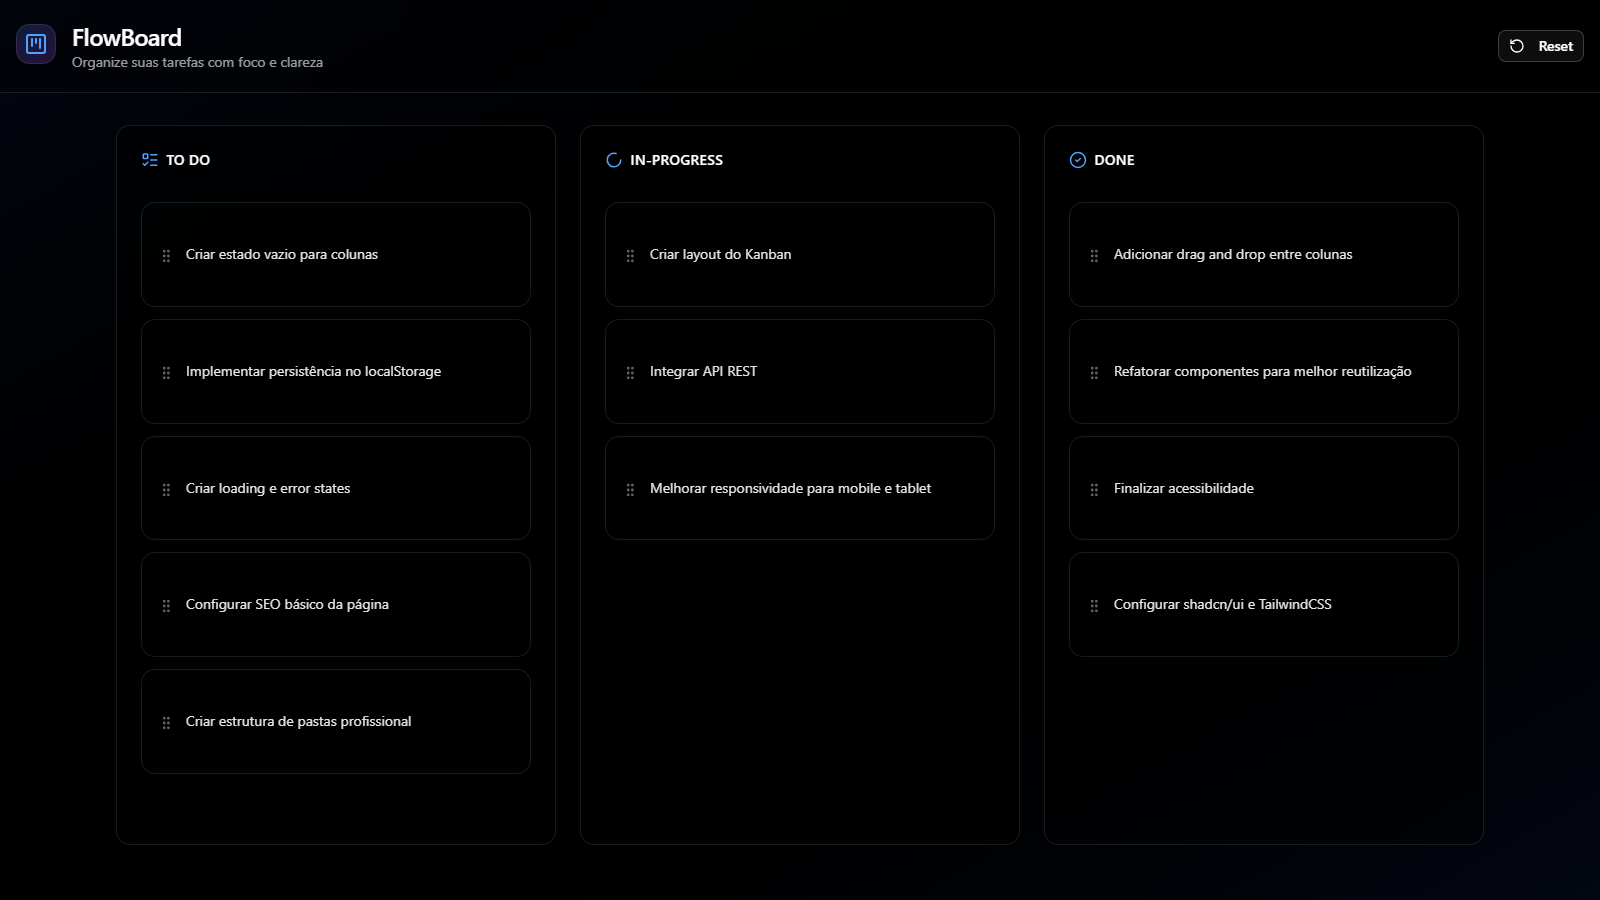
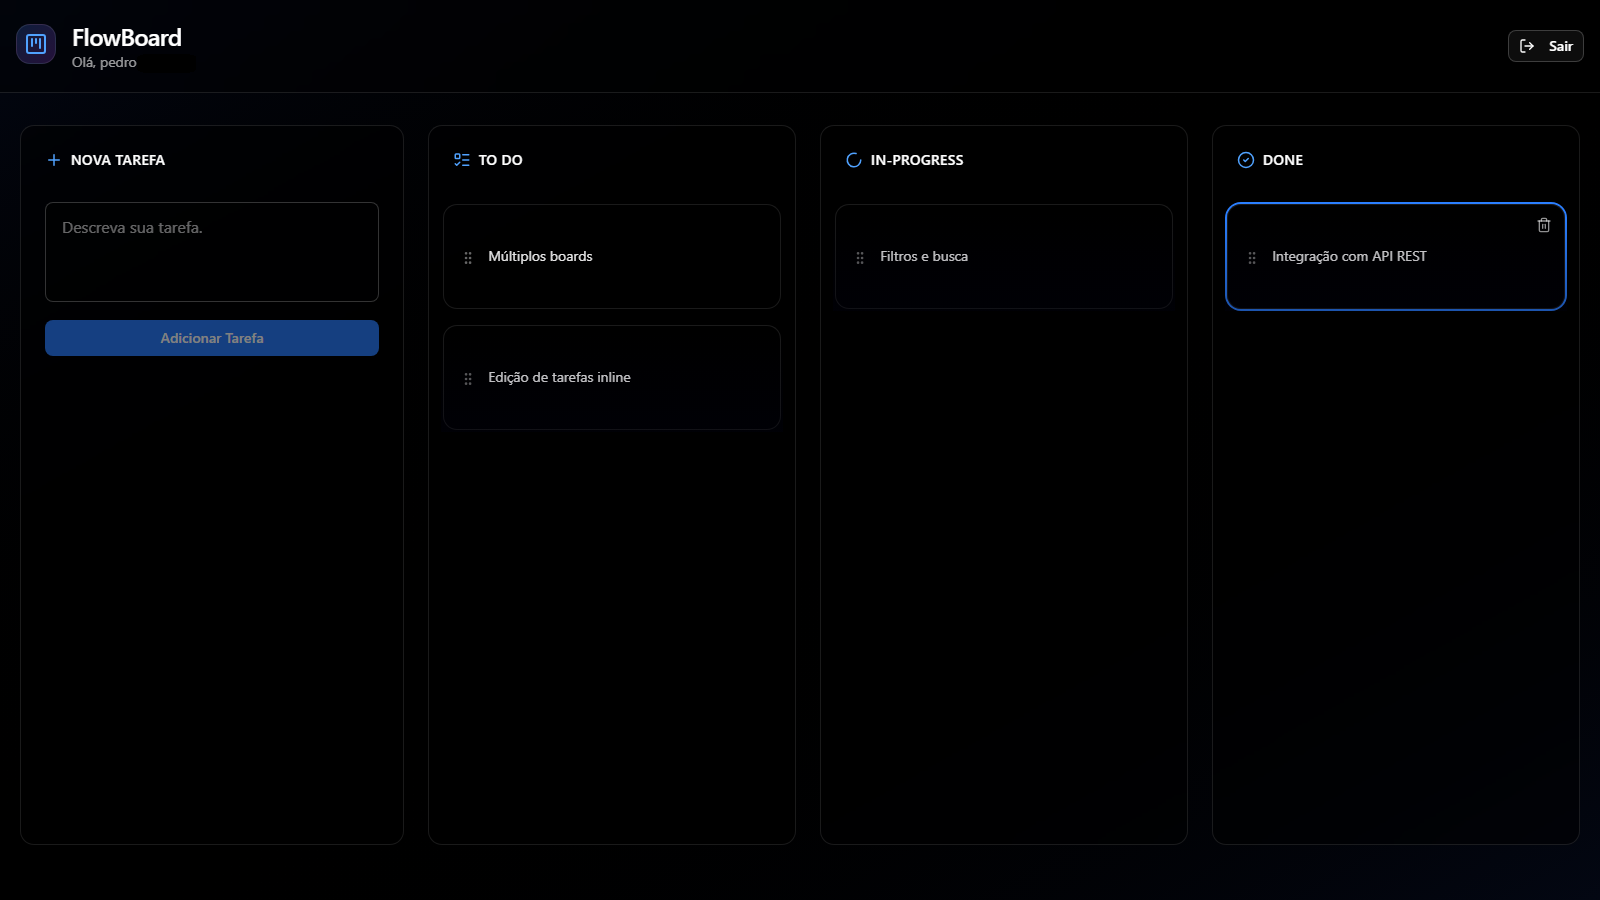
README.md e componentes  atualizados

diff --git a/src/components/kanban/KanbanBoard.tsx b/src/components/kanban/KanbanBoard.tsx
@@ -14,22 +14,18 @@ import type { Todo, TodoStatus } from "@/types/todo";
 export default function KanbanBoard() {
   const { user } = useAuth();
   const [todos, setTodos] = useState<Todo[]>([]);
-  const [isLoading, setIsLoading] = useState(true);
   const [draggedTodoId, setDraggedTodoId] = useState<number | null>(null);
   const [todoToDelete, setTodoToDelete] = useState<number | null>(null);
 
   const loadTodos = useCallback(async () => {
     if (!user) return;
     
-    setIsLoading(true);
     try {
       const fetchedTodos = await fetchTodos(user.id);
       setTodos(fetchedTodos);
     } catch (error) {
       console.error("Erro ao carregar tarefas:", error);
-    } finally {
-      setIsLoading(false);
-    }
+    } 
   }, [user]);
 
   // Carrega tarefas do Supabase quando o usuário estiver logado
@@ -111,17 +107,6 @@ export default function KanbanBoard() {
 
   function handleCancelDelete() {
     setTodoToDelete(null);
-  }
-
-  if (isLoading) {
-    return (
-      <div className="min-h-screen flex items-center justify-center bg-linear-to-br from-gray-950 via-black to-gray-950">
-        <div className="text-center space-y-4">
-          <Loader2 className="h-12 w-12 animate-spin mx-auto text-blue-400" aria-hidden="true" />
-          <p className="text-lg font-medium text-white/70">Carregando suas tarefas...</p>
-        </div>
-      </div>
-    );
   }
 
   return (

diff --git a/src/components/auth/ProtectedRoute.tsx b/src/components/auth/ProtectedRoute.tsx
@@ -18,7 +18,7 @@ export function ProtectedRoute({ children }: ProtectedRouteProps) {
     if (loading) {
       timer = setTimeout(() => {
         setShowLoader(true)
-      }, 500) // delay real do loader
+      }, 1600) 
     } else {
       setShowLoader(false)
     }
@@ -30,7 +30,7 @@ export function ProtectedRoute({ children }: ProtectedRouteProps) {
     return (
       <div className="min-h-screen flex items-center justify-center bg-linear-to-br from-gray-950 via-black to-gray-950">
         <div className="text-center space-y-4">
-          <Loader2 className="h-12 w-12 animate-spin mx-auto text-primary" />
+          <Loader2 className="h-12 w-12 animate-spin mx-auto text-blue-400" />
           <p className="text-lg font-medium text-muted-foreground">
             Carregando...
           </p>

diff --git a/src/components/kanban/AddTaskColumn.tsx b/src/components/kanban/AddTaskColumn.tsx
@@ -64,11 +64,11 @@ export function AddTaskColumn({ onAddTask }: AddTaskColumnProps) {
             <textarea
               value={title}
               onChange={(e) => setTitle(e.target.value)}
-              placeholder="Digite o título da tarefa..."
+              placeholder="Descreva sua tarefa."
               className="w-full px-4 py-3 rounded-md border border-white/20 bg-black/40 
                          text-white placeholder:text-white/40 
                          focus:outline-none focus:ring-2 focus:ring-blue-500
-                         resize-none min-h-[100px]"
+                         resize-none min-h-25"
               disabled={isAdding}
             />
 

diff --git a/src/components/kanban/KanbanCard.tsx b/src/components/kanban/KanbanCard.tsx
@@ -38,7 +38,7 @@ export function KanbanCard({ todo, onDragStart, onDelete }: KanbanCardProps) {
               e.stopPropagation();
               onDelete(todo.id);
             }}
-            className="absolute top-2 right-2 h-6 w-6 p-0 opacity-0 group-hover:opacity-100 group-focus:opacity-100 transition-opacity
+            className="absolute top-2 right-2 h-6 w-6 p-0 opacity-0 group-hover:opacity-100 focus:opacity-100 group-focus:opacity-100 transition-opacity
                        hover:bg-red-500/20 hover:text-red-400 text-white/60"
             aria-label="Excluir tarefa"
           >

diff --git a/src/components/kanban/KanbanCols.tsx b/src/components/kanban/KanbanCols.tsx
@@ -39,7 +39,7 @@ export function KanbanColumn({
         <div className="flex-1 px-3 py-2">
           <AnimatedList
             className="w-full"
-            maxHeight="calc(75vh - 5.5rem)"
+            maxHeight="calc(70vh - 5.5rem)"
             showGradients={true}
             enableArrowNavigation={false}
             displayScrollbar={true}

diff --git a/README.md b/README.md
@@ -74,29 +74,38 @@ pnpm dev
 
 ```
 flow-board/
-├── public/                 # Arquivos estáticos
+├── public/
 ├── src/
-│   ├── components/         # Componentes React
-│   │   ├── kanban/         # Componentes do Kanban Board
-│   │   │   ├── KanbanBoard.tsx    # Componente principal
-│   │   │   ├── KanbanCard.tsx     # Card de tarefa
-│   │   │   ├── KanbanCols.tsx     # Coluna do Kanban
-│   │   │   └── KanbanHeade.tsx    # Cabeçalho do board
-│   │   └── ui/             # Componentes UI reutilizáveis
+│   ├── components/             # Componentes React
+│   │   ├── AnimatedList.tsx    # Lista animada reutilizável
+│   │   ├── auth/               # Autenticação e rotas protegidas
+│   │   │   ├── LoginForm.tsx
+│   │   │   └── ProtectedRoute.tsx
+│   │   ├── kanban/             # Componentes do Kanban Board
+│   │   │   ├── AddTaskColumn.tsx
+│   │   │   ├── DeleteConfirmDialog.tsx
+│   │   │   ├── KanbanBoard.tsx
+│   │   │   ├── KanbanCard.tsx
+│   │   │   ├── KanbanCols.tsx
+│   │   │   └── KanbanHeade.tsx
+│   │   └── ui/                 # Componentes UI reutilizáveis
 │   │       ├── button.tsx
-│   │       └── card.tsx
-│   ├── lib/               # Utilitários e helpers
+│   │       ├── card.tsx
+│   │       └── dialog.tsx
+│   ├── contexts/               # Contextos React
+│   │   └── AuthContext.tsx
+│   ├── lib/                    # Integrações e helpers
+│   │   ├── supabase.ts
+│   │   ├── todos.ts
 │   │   └── utils.ts
-│   ├── types/             # Definições de tipos TypeScript
+│   ├── types/                  # Tipos TypeScript
 │   │   └── todo.ts
-│   ├── utils/             # Funções utilitárias
-│   │   └── Tarefas.ts     # Dados iniciais das tarefas
-│   ├── App.tsx            # Componente raiz
-│   ├── main.tsx           # Ponto de entrada
-│   └── index.css          # Estilos globais
+│   ├── App.tsx                 # Componente raiz
+│   ├── main.tsx                # Ponto de entrada
+│   └── index.css               # Estilos globais
 ├── package.json
-├── tsconfig.json          # Configuração TypeScript
-├── vite.config.ts         # Configuração Vite
+├── tsconfig.json               # Configuração TypeScript
+├── vite.config.ts              # Configuração Vite
 └── README.md
 ```
 
@@ -107,28 +116,16 @@ flow-board/
 - Feedback visual durante o arrasto
 - Atualização automática do estado
 
-### Persistência
-- Todas as mudanças são salvas automaticamente no localStorage
-- Dados persistem após recarregar a página
-- Restauração automática do estado salvo
+### Autenticação & integração
+- Integração com Supabase para autenticação de usuários
+- Proteção de rotas com `ProtectedRoute`
+- Formulário de login simples
 
-### Reset
-- Botão de reset no cabeçalho
-- Restaura todas as tarefas para o estado inicial
-- Animação de loading durante o processo
+### Adicionar/Remover Tarefas
+- Formulário para adicionar uma nova tarefa
+- Botão para remover tarefas somente na coluna "DONE"
 
 ## 🎨 Customização
-
-### Modificar Tarefas Iniciais
-
-Edite o arquivo `src/utils/Tarefas.ts` para alterar as tarefas iniciais:
-
-```typescript
-export const initialTodos: Todo[] = [
-  { id: 1, title: "Sua tarefa", status: "todo" },
-  // ...
-];
-```
 
 ### Personalizar Estilos
 
@@ -136,10 +133,10 @@ Os estilos são gerenciados pelo TailwindCSS. Edite as classes nos componentes o
 
 ## 🔮 Melhorias Futuras
 
-- [ ] Integração com API REST
-- [ ] Autenticação de usuários
+- [x] Integração com API REST
+- [x] Autenticação de usuários
 - [ ] Múltiplos boards
 - [ ] Edição de tarefas inline
-- [ ] Adicionar/remover tarefas
+- [x] Adicionar/remover tarefas
 - [ ] Filtros e busca
 
